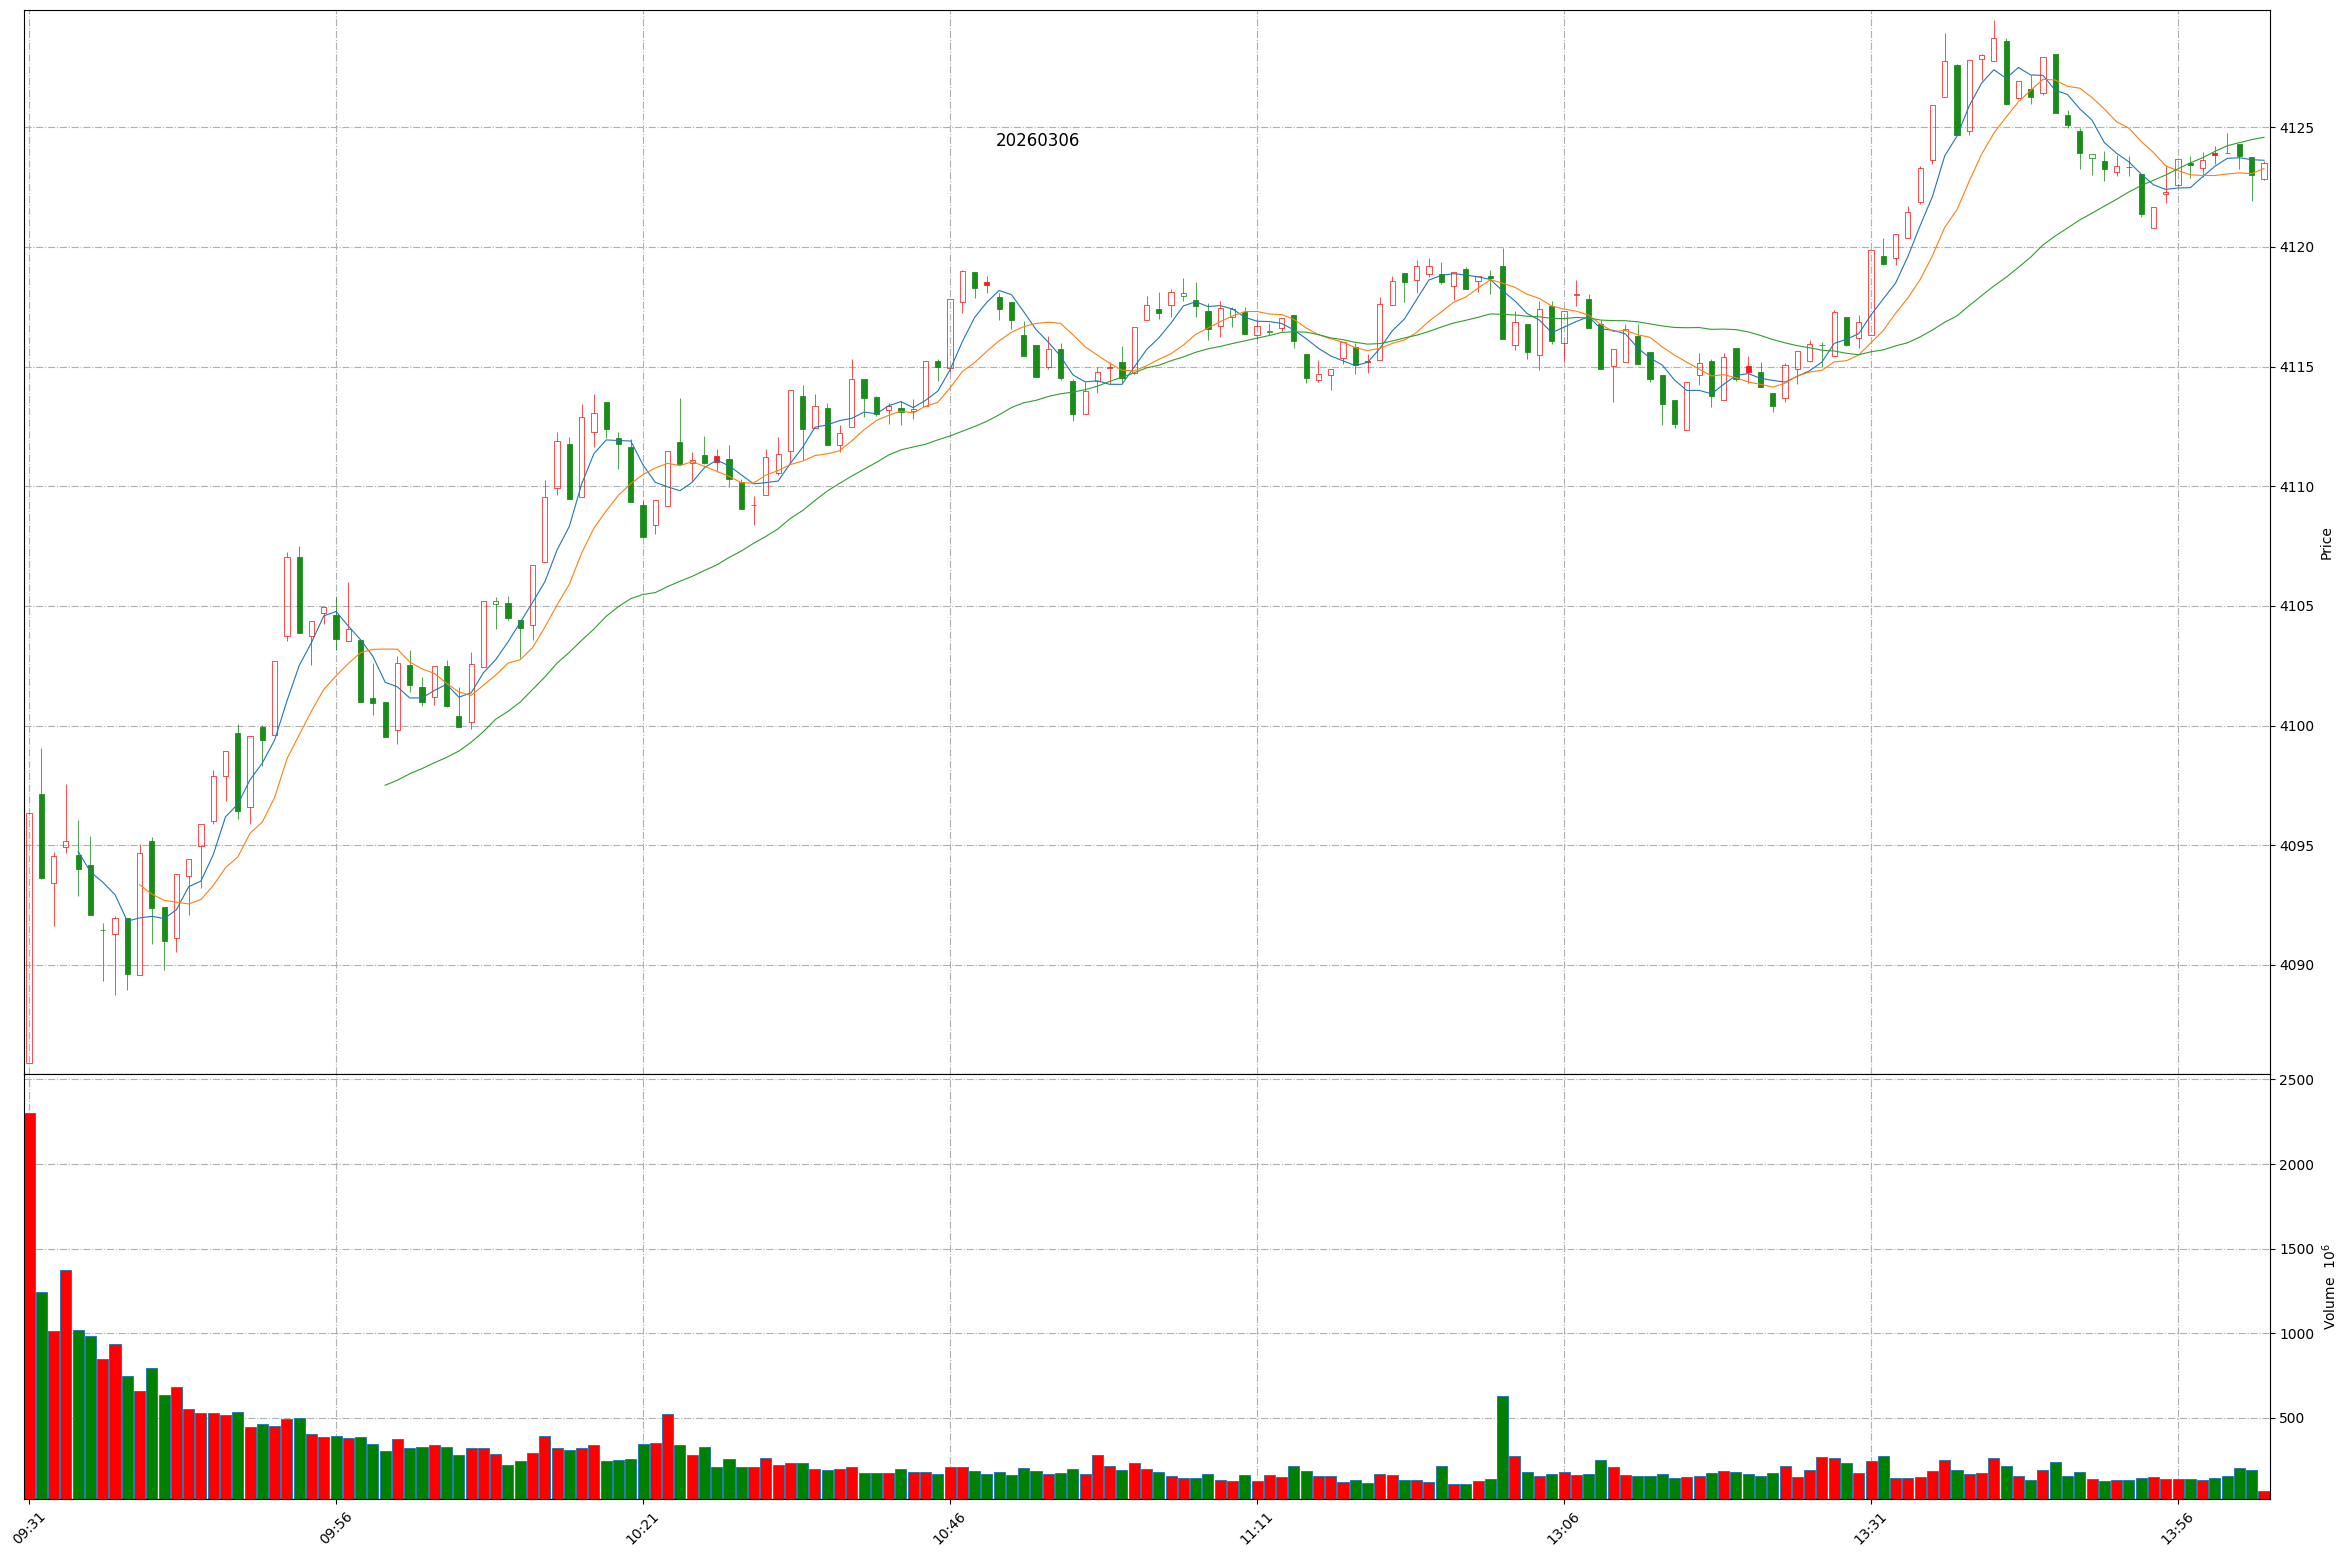
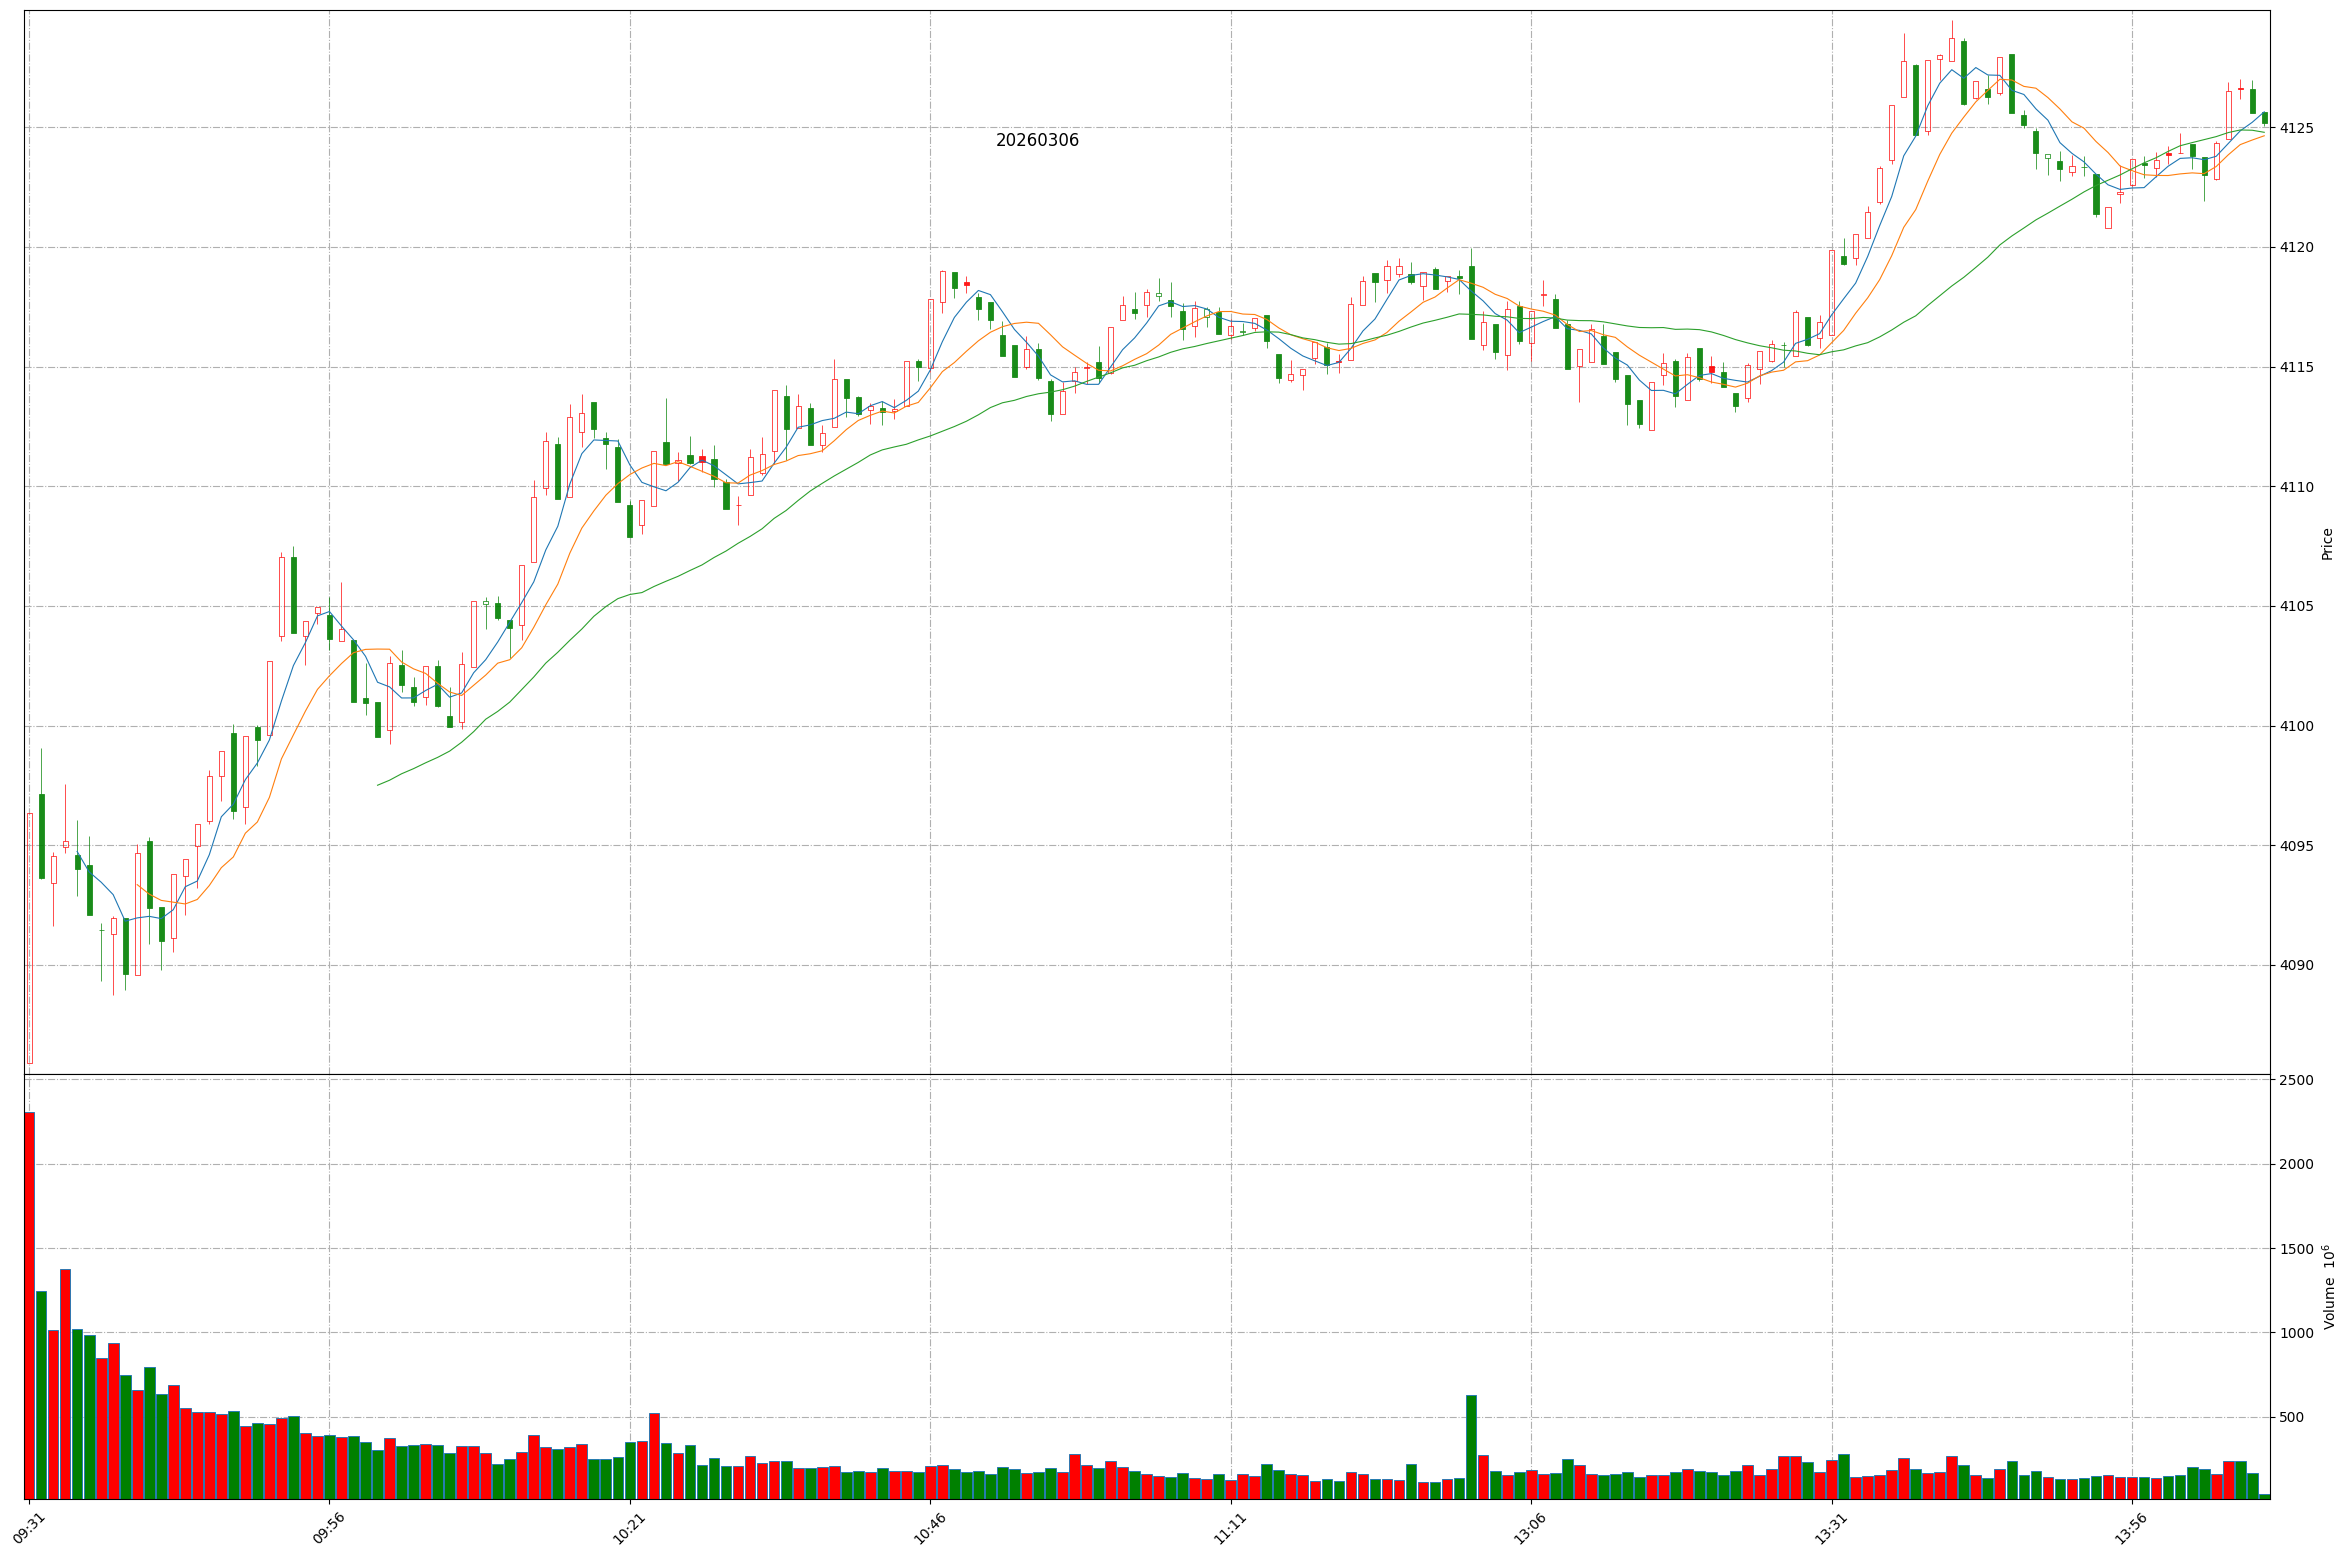
Github action update at 2026-03-06 14:06:39.

diff --git a/README.md b/README.md
@@ -1,11 +1,11 @@
 
 # Daily-A-share-market-quotes 每日 A 股指数（5min 更新）- 20260306
 
-### 上证指数 20260306 14:2
+### 上证指数 20260306 14:6
 ![](./fig/2026/3/20260306-sh000001.png)
 
-### 深证成指 20260306 14:2
+### 深证成指 20260306 14:6
 ![](./fig/2026/3/20260306-sz399001.png)
 
-### 北证50 20260306 14:2
+### 北证50 20260306 14:6
 ![](./fig/2026/3/20260306-bj899050.png)
